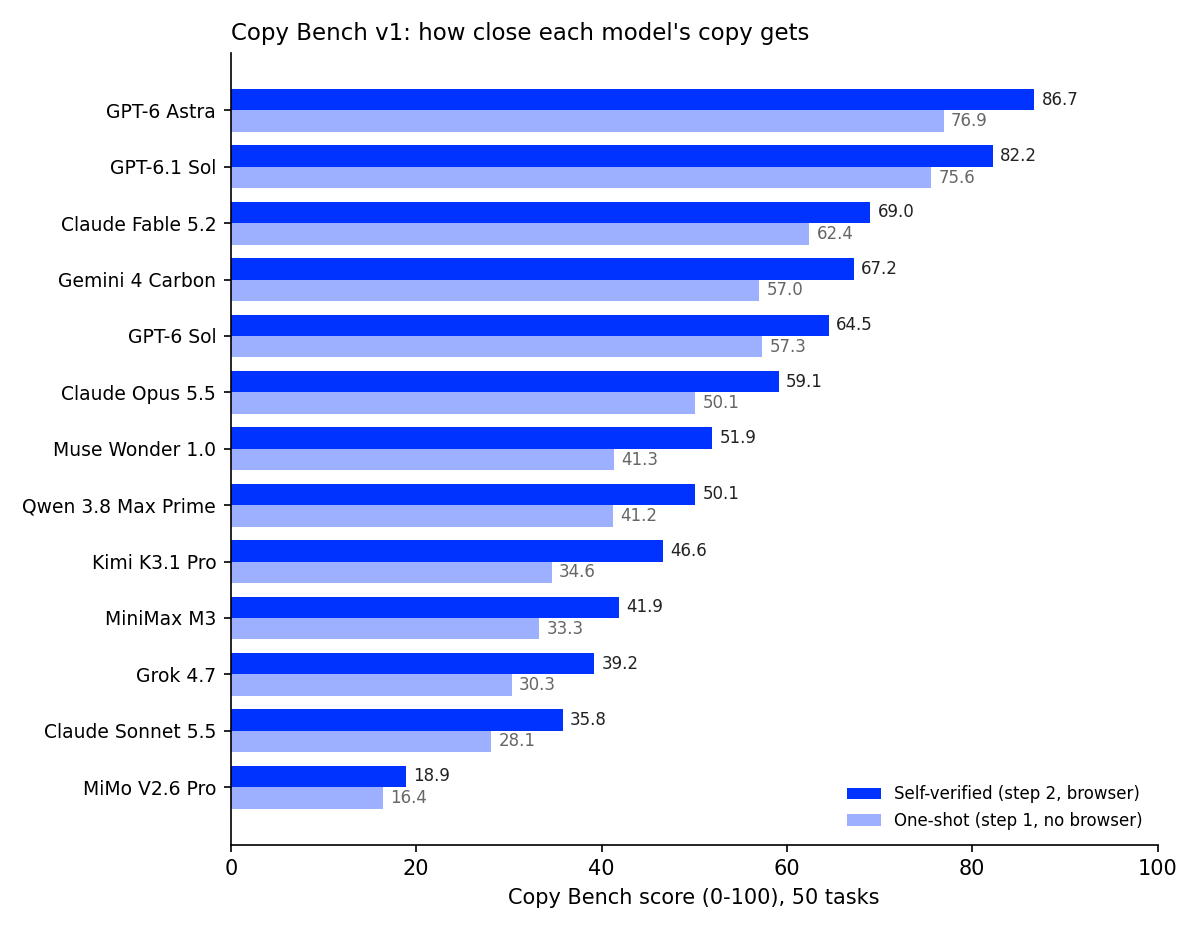
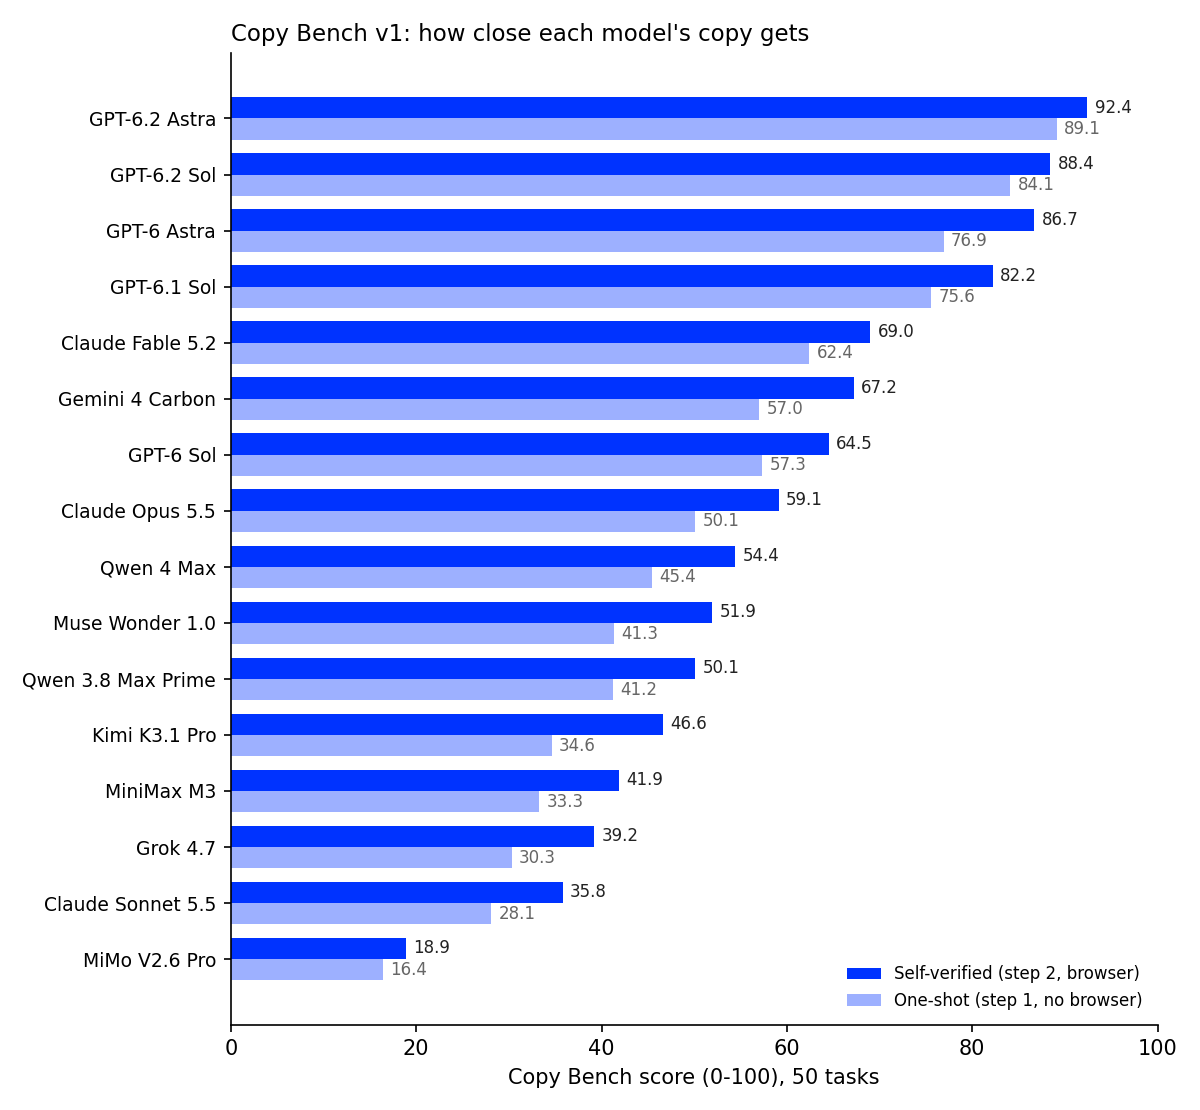
Docs: 16-model results, rubric terms, how the published scores were judged
README and the Harbor dataset README now match 21st.dev/benchmarks/copy: 16 models (GPT-6.2 Astra 92.4), analytic
rubric with 26 criteria, the two-judge panel, integrity checks and human validation, and a link to the method page.
Known limits say plainly that the in-run grader here is one judge on 4 frames with no integrity checks. Chart
regenerated.

Changed region(s): [[0.0308, 0.0, 0.9867, 0.9978], [0.0617, 0.343, 0.185, 0.3742]]

diff --git a/scripts/chart.py b/scripts/chart.py
@@ -3,13 +3,9 @@ import matplotlib
 matplotlib.use("Agg")
 import matplotlib.pyplot as plt
 
-ROWS = [("GPT-6 Astra", 76.9, 86.7), ("GPT-6.1 Sol", 75.6, 82.2), ("Claude Fable 5.2", 62.4, 69.0),
-        ("Gemini 4 Carbon", 57.0, 67.2), ("GPT-6 Sol", 57.3, 64.5), ("Claude Opus 5.5", 50.1, 59.1),
-        ("Muse Wonder 1.0", 41.3, 51.9), ("Qwen 3.8 Max Prime", 41.2, 50.1), ("Kimi K3.1 Pro", 34.6, 46.6),
-        ("MiniMax M3", 33.3, 41.9), ("Grok 4.7", 30.3, 39.2), ("Claude Sonnet 5.5", 28.1, 35.8),
-        ("MiMo V2.6 Pro", 16.4, 18.9)]
+ROWS = [('GPT-6.2 Astra', 89.1, 92.4), ('GPT-6.2 Sol', 84.1, 88.4), ('GPT-6 Astra', 76.9, 86.7), ('GPT-6.1 Sol', 75.6, 82.2), ('Claude Fable 5.2', 62.4, 69.0), ('Gemini 4 Carbon', 57.0, 67.2), ('GPT-6 Sol', 57.3, 64.5), ('Claude Opus 5.5', 50.1, 59.1), ('Qwen 4 Max', 45.4, 54.4), ('Muse Wonder 1.0', 41.3, 51.9), ('Qwen 3.8 Max Prime', 41.2, 50.1), ('Kimi K3.1 Pro', 34.6, 46.6), ('MiniMax M3', 33.3, 41.9), ('Grok 4.7', 30.3, 39.2), ('Claude Sonnet 5.5', 28.1, 35.8), ('MiMo V2.6 Pro', 16.4, 18.9)]
 ROWS = ROWS[::-1]
-fig, ax = plt.subplots(figsize=(8, 6.2), dpi=150)
+fig, ax = plt.subplots(figsize=(8, 7.4), dpi=150)
 y = range(len(ROWS))
 h = 0.38
 ax.barh([i + h / 2 for i in y], [r[2] for r in ROWS], h, color="#0033ff", label="Self-verified (step 2, browser)")

diff --git a/README.md b/README.md
@@ -2,7 +2,8 @@
 
 Copy Bench measures how well models rebuild complex web components from a screen recording: WebGL, shaders and multi-step interactive animations.
 
-Full results and every copy next to its original: **https://21st.dev/benchmarks/copy**
+Results, with every copy next to its original: **https://21st.dev/benchmarks/copy**
+Method: **https://21st.dev/benchmarks/copy/method**
 
 ## How it works
 
@@ -11,23 +12,27 @@ Copy Bench measures how well a model can rebuild a moving web component from a s
 `index.html` that looks and moves the same.
 
 This repo is a public subset of Copy Bench (13 of the 50 tasks), packaged as a
-[Harbor](https://harborframework.com) dataset you can run as is. Full write-up and results: https://21st.dev/benchmarks/copy
+[Harbor](https://harborframework.com) dataset you can run as is:
+[`21st/copy-bench`](https://hub.harborframework.com/datasets/21st/copy-bench).
 
 ## Why frontier models still get it wrong
 
-We ran 13 models on all 50 tasks (650 copies per step, 1,300 in total). The best model gets 86.7 out of 100 when it can
-check its work in a browser, and only 76.9 when it can't. Most models land between 35 and 70. The hard part is motion:
+We ran 16 models on all 50 tasks (800 copies per step, 1,600 in total). The best model gets 92.4 out of 100 when it can
+check its work in a browser, and 89.1 when it can't. Most models land between 35 and 70. The hard part is motion:
 models get the colors and the layout roughly right, then miss how fast things spin, how a shape morphs, what happens
 under the mouse, or what a shader actually looks like over time.
 
 | Model | Harness | One-shot | Self-verified |
 |---|---|---:|---:|
+| GPT-6.2 Astra | Codex | 89.1 | 92.4 |
+| GPT-6.2 Sol | Codex | 84.1 | 88.4 |
 | GPT-6 Astra | Codex | 76.9 | 86.7 |
 | GPT-6.1 Sol | Codex | 75.6 | 82.2 |
 | Claude Fable 5.2 | Claude Code | 62.4 | 69.0 |
 | Gemini 4 Carbon | Gemini CLI | 57.0 | 67.2 |
 | GPT-6 Sol | Codex | 57.3 | 64.5 |
 | Claude Opus 5.5 | Claude Code | 50.1 | 59.1 |
+| Qwen 4 Max | Qwen Code | 45.4 | 54.4 |
 | Muse Wonder 1.0 | Muse Code | 41.3 | 51.9 |
 | Qwen 3.8 Max Prime | Qwen Code | 41.2 | 50.1 |
 | Kimi K3.1 Pro | Kimi Code | 34.6 | 46.6 |
@@ -38,8 +43,8 @@ under the mouse, or what a shader actually looks like over time.
 
 ![One-shot vs self-verified score per model](docs/results.png)
 
-Scores are on all 50 tasks, graded offline by two vision judges (GPT-6.1 Sol and Claude Opus 5.5). Letting the model
-look at its own page in a browser raised the score on 418 of 650 copies and lowered it on 100.
+Scores are on all 50 tasks, the mean of two judges from different labs (GPT-6.1 Sol and Claude Opus 5.5). Letting the
+model look at its own page in a browser raised the score on 507 of 799 copies and lowered it on 124.
 
 Each model ran in its maker's own agent harness (Codex, Claude Code, Gemini CLI, ...), because that's how people
 actually use these models for frontend work, and it keeps us from handicapping a model with a harness it wasn't tuned
@@ -51,9 +56,9 @@ for. On Harbor the same tasks run with any agent it ships, for example Claude Co
   task (Neon Loop, 3D rings of letters) copied by GPT-6 Astra and by MiMo V2.6 Pro, as the in-run grader sees it.
   MiMo's copy is a blown-out glow with no letters at all. Some models also rebuild a famous demo they remember
   instead of what the video shows.
-- **Checking your own work doesn't always help.** Self-verifying raised the score on 418 of 650 copies, but lowered
-  it on 100: the model "fixes" things that were right, or breaks the page while editing.
-- **Copies that never render.** 152 of the 1,300 steps hit the time limit, and 31 left no `index.html` at all.
+- **Checking your own work doesn't always help.** Self-verifying raised the score on 507 of 799 copies, but lowered
+  it on 124: the model "fixes" things that were right, or breaks the page while editing.
+- **Copies that never render.** 155 of the 1,600 steps hit the time limit, and 31 left no `index.html` at all.
 
 GPT-6 Astra (close copy):
 
@@ -62,6 +67,27 @@ GPT-6 Astra (close copy):
 MiMo V2.6 Pro (letters gone, only the glow is left):
 
 ![MiMo V2.6 Pro copy of t84](docs/t84-mimo-v2.6-pro.jpg)
+
+## How the published scores were judged
+
+The numbers above come from our offline evaluation, described in full on the
+[method page](https://21st.dev/benchmarks/copy/method). In short:
+
+- **Analytic rubric.** Fidelity is split into 26 criteria in five dimensions: content, layout, motion, color and
+  typography. A judge rates each criterion `same`, `minor` or `major`, and code computes the score. The model never
+  picks a number.
+- **A panel of two LLM judges.** GPT-6.1 Sol and Claude Opus 5.5 rate every copy from side-by-side frames of the
+  original and the copy, and we report their mean. The judges come from two labs because a judge favors its own
+  family: on GPT copies the GPT judge scores 3.8 points above the Claude judge. Across all copies the two correlate
+  at 0.89 and sit 10 points apart on average.
+- **Integrity checks.** A score only counts if the copy was built from what the model saw. Reused code, replayed
+  pixels (an embedded video or flipped frames) and a missing file score zero. No copy replayed the recording. Four
+  copies scored zero for reused code: with nothing fetched, Gemini 4 Carbon turned in a flocking simulation whose
+  code matches 90% of the open-source original.
+- **Human validation.** We scored 249 copies by hand. The judges' average matches those scores at 0.84, closer than
+  either judge alone.
+
+The grader that ships in this repo is a lighter version of that setup: see [Known limits](#known-limits).
 
 ## Task anatomy
 
@@ -101,8 +127,8 @@ After each step, `tests/grade.py` runs inside the sandbox:
 2. It serves the workspace, opens the copy in headless Chromium at 1280x800, replays the same mouse/scroll script,
    and takes screenshots at the same 4 timestamps as the reference frames.
 3. It builds one contact sheet (original on the left, copy on the right, one row per timestamp) and asks one vision
-   judge a fixed checklist: content, layout, color, typography, motion (26 checks, each `same`, `minor`, `major` or
-   `n/a`).
+   judge a fixed rubric: content, layout, color, typography, motion (26 criteria, each rated `same`, `minor`,
+   `major` or `n/a`).
 4. The score is computed in code, not by the model: each dimension is 100 minus 15 per minor and 40 per major,
    overall is a weighted mean (content 25%, layout 25%, motion 20%, color 15%, typography 15%).
    Reward = overall / 100.
@@ -148,8 +174,10 @@ arm64, and the first build takes a few minutes.
   different from the reference (shading, bloom, smoothness). The judge prompt says so, and the per-task note about
   what varies between loads of the original is passed through. Our published results were captured on the same
   machine for both sides, so they don't have this problem.
-- **One judge, 4 frames.** The published results use two judges on full recordings (16 frames plus video). The
-  in-run grader is a lighter version of the same checklist and scoring, so expect its numbers to be close, not equal.
+- **One judge, 4 frames, no integrity checks.** The published results use two judges on full recordings, and zero a
+  copy that reuses the original's code or replays the recording. The in-run grader here uses the same rubric and
+  the same scoring with one judge on 4 frames, and it does not run the integrity checks. Expect its numbers to be
+  close to ours, not equal.
 - **The verifier shares the sandbox with the agent.** It decrypts its own copy of Chromium and calls system binaries
   by absolute path, but a determined agent running as root could still tamper with the sandbox.
 - No reference solutions are included (the originals' source isn't redistributed), so there's no oracle run.

diff --git a/tasks/README.md b/tasks/README.md
@@ -10,6 +10,11 @@ This is the public subset: 13 of the 50 tasks. The other 37 stay private so the 
 - Method: https://21st.dev/benchmarks/copy/method
 - Code and grader: https://github.com/21st-dev/copy-bench
 
+## Results so far
+
+16 models on all 50 tasks. The best, GPT-6.2 Astra, scores 92.4 out of 100 with a browser and 89.1 without. Most
+models land between 35 and 70, and motion is the hardest of the five dimensions.
+
 ## Run it
 
 ```bash
@@ -28,9 +33,10 @@ Two steps in the same sandbox:
 2. **fix** (self-verified, 20 min): a headless browser gets unlocked, and the agent can open its own page, compare it
    with the recording, and fix it.
 
-After each step the grader renders the copy in headless Chromium, replays the same input, and a vision judge fills in
-a fixed 26-item checklist (content, layout, color, typography, motion). The score is computed in code from that
-checklist. The task reward is the score of the last step, from 0 to 1.
+After each step the grader renders the copy in headless Chromium, replays the same input, and a vision judge rates it
+against a fixed rubric: 26 criteria in five dimensions (content, layout, motion, color, typography), each rated same,
+minor or major. The score is computed in code from those ratings. The task reward is the score of the last step,
+from 0 to 1.
 
 The judge uses `ANTHROPIC_API_KEY` (default `claude-opus-5-5`) or `OPENAI_API_KEY` (default `gpt-6.1-sol`); set
 `COPY_BENCH_JUDGE_MODEL` for a different one. Without a key the run finishes ungraded.
@@ -39,5 +45,7 @@ The judge uses `ANTHROPIC_API_KEY` (default `claude-opus-5-5`) or `OPENAI_API_KE
 
 - WebGL renders in software in the sandbox, so a correct WebGL copy can look a little different from the reference,
   which was recorded with a GPU. The judge is told.
-- The leaderboard on 21st.dev uses two judges on full recordings. This in-run grader is a lighter version of the same
-  checklist, so expect close numbers, not equal ones.
+- The leaderboard on 21st.dev uses a panel of two judges from different labs on full recordings, plus integrity
+  checks that zero a copy for reusing the original's code or replaying the recording, and it was validated against
+  249 hand-scored copies. This in-run grader uses the same rubric and scoring with one judge on 4 frames and no
+  integrity checks, so expect close numbers, not equal ones.
